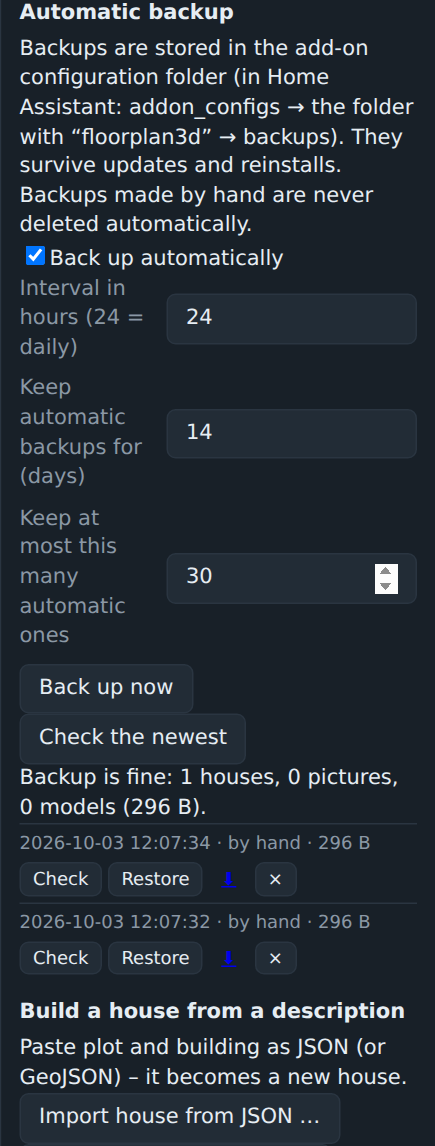
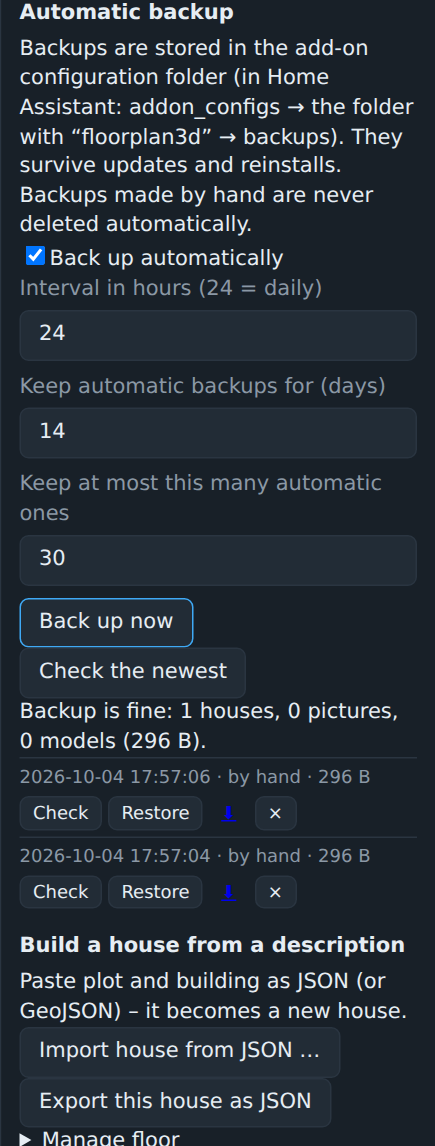
3.27.1: Browser-Tests in der CI, Backup-Panel schmaler, englische Startmeldung (#151)
* Package E: e2e tests in CI, narrower backup panel, English start log (3.27.1)

Claude-Session: https://claude.ai/code/session_0188xLYUQf5ScaDHc591fQRD

* e2e in CI: compare the lock count by change, print failed checks; test protocol: this week's list

Claude-Session: https://claude.ai/code/session_0188xLYUQf5ScaDHc591fQRD

---------

diff --git a/floorplan3d/rootfs/app/static/index.html b/floorplan3d/rootfs/app/static/index.html
@@ -132,9 +132,9 @@
           <h4 data-i18n="ab.title"></h4>
           <p class="sub" data-i18n="ab.hint"></p>
           <div class="row check"><input id="setAutoBackup" type="checkbox"><label for="setAutoBackup" data-i18n="ab.enable"></label></div>
-          <div class="prop"><label for="setBackupEvery" data-i18n="ab.every"></label><input id="setBackupEvery" type="number" min="1" max="720" step="1"></div>
-          <div class="prop"><label for="setBackupKeepDays" data-i18n="ab.keepDays"></label><input id="setBackupKeepDays" type="number" min="1" max="3650" step="1"></div>
-          <div class="prop"><label for="setBackupKeepCount" data-i18n="ab.keepCount"></label><input id="setBackupKeepCount" type="number" min="1" max="500" step="1"></div>
+          <div class="prop stack"><label for="setBackupEvery" data-i18n="ab.every"></label><input id="setBackupEvery" type="number" min="1" max="720" step="1"></div>
+          <div class="prop stack"><label for="setBackupKeepDays" data-i18n="ab.keepDays"></label><input id="setBackupKeepDays" type="number" min="1" max="3650" step="1"></div>
+          <div class="prop stack"><label for="setBackupKeepCount" data-i18n="ab.keepCount"></label><input id="setBackupKeepCount" type="number" min="1" max="500" step="1"></div>
           <div class="stopTools">
             <button type="button" id="abNow" data-i18n="ab.now"></button>
             <button type="button" id="abTest" data-i18n="ab.test"></button>

diff --git a/tests/e2e/test_e2e.py b/tests/e2e/test_e2e.py
@@ -661,9 +661,12 @@ with sync_playwright() as p:
     check("object list is grouped and filterable", ngrp >= 2 and nfilt == 0, (ngrp, nfilt))
     nl = pg9.locator("#objList .objlock").count()
     check("object list has a lock checkbox per item", nl >= 4, nl)
-    pg9.locator("#objList details[open] .objlock").first.check(); pg9.wait_for_timeout(300)
-    locked = pg9.evaluate("window.__fp.layout.floors.flatMap(f => [...f.rooms, ...f.walls, ...f.devices]).filter(x => x.locked).length")
-    check("ticking the box locks the item", locked == 1, locked)
+    count_locked = "window.__fp.layout.floors.flatMap(f => [...f.rooms, ...f.walls, ...f.devices]).filter(x => x.locked).length"
+    locked0 = pg9.evaluate(count_locked)                       # an earlier step may have left an item locked: compare the change, not an absolute number
+    idx = pg9.evaluate("[...document.querySelectorAll('#objList details[open] .objlock')].findIndex(c => !c.checked)")
+    pg9.locator("#objList details[open] .objlock").nth(idx).check(); pg9.wait_for_timeout(300)
+    locked = pg9.evaluate(count_locked)
+    check("ticking the box locks the item", locked == locked0 + 1, (locked0, locked))
     w0 = pg9.evaluate("document.querySelector('#panel').getBoundingClientRect().width")
     bx = pg9.evaluate("(() => { const r = document.querySelector('#panelResizer').getBoundingClientRect(); return [r.x + r.width / 2, r.y + 200]; })()")
     pg9.mouse.move(bx[0], bx[1]); pg9.mouse.down(); pg9.mouse.move(bx[0] - 150, bx[1], steps=5); pg9.mouse.up(); pg9.wait_for_timeout(300)

diff --git a/docs/TESTPROTOKOLL.md b/docs/TESTPROTOKOLL.md
@@ -4,6 +4,18 @@ Hier steht, was getestet wurde, wann und von wem. Der Besitzer testet in der **D
 
 Legende: ✅ geht · ❌ geht nicht · ❓ noch nicht getestet · ➖ in der Demo nicht prüfbar (nur im Add-on)
 
+## Diese Woche noch prüfen (Stand 3.27.1)
+
+Das sind die Punkte, die nur der Besitzer im echten Betrieb prüfen kann. Nach Wichtigkeit geordnet, die Nummern verweisen auf die Tabellen unten. Ergebnis jeweils unten in der Tabelle eintragen (✅ / ❌).
+
+1. **Nach dem Update auf 3.27.1** (Abschnitt 21): Versionsanzeige, Etagen auseinander, Backup-Panel.
+2. **Erster Start** (Abschnitt 20): auf einer sauberen Installation oder in einem privaten Fenster.
+3. **Automatische Sicherung** (Abschnitt 18): vor allem 18.3 (Ordner `addon_configs`), 18.6 und 18.7 (zeitgesteuert, dauert eine Stunde) und 18.8 (Zurückspielen).
+4. **Wandtablet** (Abschnitt 10 und 8.5): Kiosk, Leistungsmodus, Warnbanner. Nur mit echtem Gerät möglich.
+5. **Backup und Speichern** (9.6, 9.7) und **Import des eigenen Hauses** (13.3 bis 13.5, 15.6, 12.6a).
+6. **Kameras** (Abschnitt 6) und **Öffnungen gruppiert** (7.1a), falls Kameras vorhanden sind.
+7. **Haus ohne Keller** (14.4) und **Demo mit Gauben** (16.4).
+
 ## Automatische Tests
 
 | Datum | Stand | Python-Tests | Browser-Test (E2E) | Bemerkung |
@@ -219,6 +231,17 @@ E2E-Ergebnis 3.21.0: alle 208 Prüfungen bestanden (frischer Server, Headless-Ch
 | 20.6 | „Haus aus JSON importieren" öffnet den Importdialog | ❓ |
 | 20.7 | Die Etage heißt je nach Sprache „Ground floor", „Erdgeschoss" und so weiter | ❓ |
 | 20.8 | Bestehende Installationen behalten Sprache und Design | ❓ |
+
+### 21. Neu in 3.26.1 bis 3.27.1
+
+| Nr. | Prüfpunkt | Ergebnis |
+| --- | --- | --- |
+| 21.1 | Etagen auseinander (Ganzes Haus, „auseinander"): jede Etage hat ihre Lücke, auch das Erdgeschoss hebt sich vom Keller ab (#146) | ✅ (Besitzer, 3.26.1) |
+| 21.2 | Versionsanzeige: im Fenster steht „Browser: zeigt genau diese Dateien", auch bei `http://` (#144) | ❓ |
+| 21.3 | Einstellungen ⚙ zeigt das Kästchen „Alle 5 Minuten bei GitHub nachsehen …" (#140) | ❓ |
+| 21.4 | Sobald es eine neuere Version gibt, wird die Anzeige im Bearbeiten-Modus nach spätestens 5 Minuten blau: „⬆ Neue Version verfügbar" (#140) | ❓ (erst bei der nächsten Version prüfbar) |
+| 21.5 | Backup-Panel: die Beschriftungen der Zahlenfelder stehen über den Feldern, nicht in einer schmalen Spalte | ❓ |
+| 21.6 | Im Protokoll des Add-ons steht beim Start „Starting 3D Floorplan on port 8099 ..." | ❓ |
 
 ## Automatisch geprüft (zusätzlich)
 - Python: Benutzer werden in `users.json` gespiegelt; Synchronisieren lädt/speichert; frische Installation holt sich Benutzer aus der Datei zurück.

diff --git a/CHANGELOG.md b/CHANGELOG.md
@@ -4,6 +4,12 @@ All notable changes are documented here. The format follows [Keep a Changelog](h
 
 ## [Unreleased]
 
+## [3.27.1] - 2026-10-05
+### Changed
+- **Backup panel in the side panel**: the labels of the three number fields now sit above the fields instead of wrapping in a narrow column over five lines.
+- The log line at the start of the add-on is in English (`Starting 3D Floorplan on port 8099 ...`).
+- **CI**: the browser end-to-end tests (253 checks) now run on every push and pull request as the job `e2e`.
+
 ## [3.27.0] - 2026-10-05
 ### Added
 - **New-version notice**: in the edit mode the version pill checks GitHub once at the start and then every 5 minutes. When `main` has a newer version it turns blue: **⬆ New version available · v…**. Only the public `manifest.json` is fetched. Can be switched off in ⚙ (`updateCheck`, on by default). Before, the comparison ran only when the button in the version dialog was pressed (#140).

diff --git a/floorplan3d/CHANGELOG.md b/floorplan3d/CHANGELOG.md
@@ -4,6 +4,12 @@ All notable changes are documented here. The format follows [Keep a Changelog](h
 
 ## [Unreleased]
 
+## [3.27.1] - 2026-10-05
+### Changed
+- **Backup panel in the side panel**: the labels of the three number fields now sit above the fields instead of wrapping in a narrow column over five lines.
+- The log line at the start of the add-on is in English (`Starting 3D Floorplan on port 8099 ...`).
+- **CI**: the browser end-to-end tests (253 checks) now run on every push and pull request as the job `e2e`.
+
 ## [3.27.0] - 2026-10-05
 ### Added
 - **New-version notice**: in the edit mode the version pill checks GitHub once at the start and then every 5 minutes. When `main` has a newer version it turns blue: **⬆ New version available · v…**. Only the public `manifest.json` is fetched. Can be switched off in ⚙ (`updateCheck`, on by default). Before, the comparison ran only when the button in the version dialog was pressed (#140).

diff --git a/tests/e2e/README.md b/tests/e2e/README.md
@@ -12,5 +12,7 @@ DATA_DIR=$(mktemp -d) SUPERVISOR_TOKEN=x HA_API=http://localhost:8123 OPTIONS_FI
 python test_e2e.py
 ```
 
+Runs in CI as the job `e2e` of `.github/workflows/ci.yml` (about 5 minutes).
+
 Covers: drawing walls, doors/windows (incl. overlap rejection), GLB upload and placement,
 entity binding, settings (language/theme/units), live mode with service call, reload persistence.
